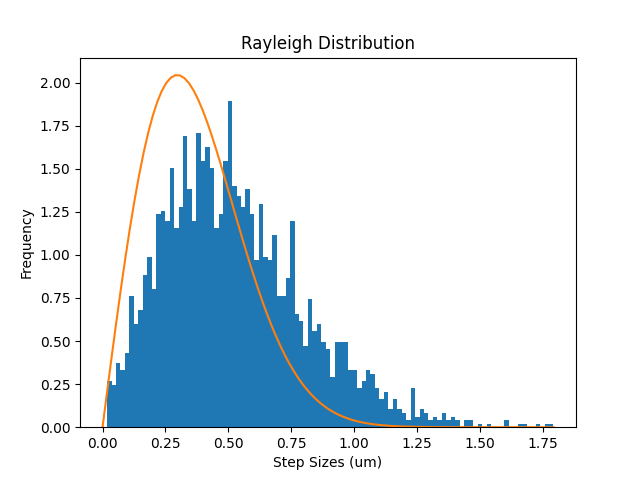
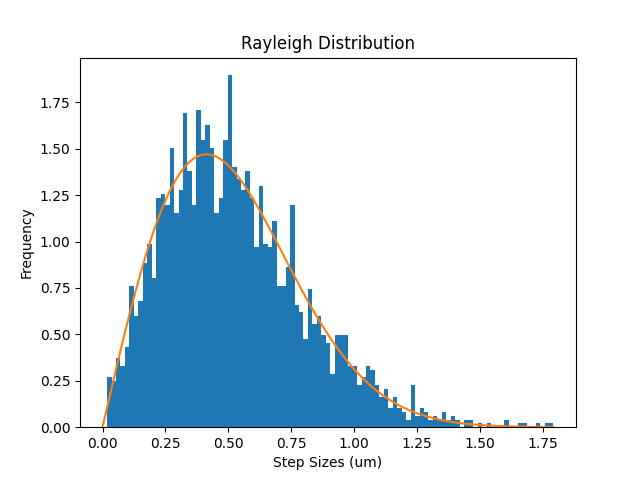
updated rayleigh distribution curve

diff --git a/Data Analysis/Results/rayleighdistributionfit.py b/Data Analysis/Results/rayleighdistributionfit.py
@@ -46,7 +46,7 @@ if __name__ == "__main__":
 
     n = 100
 
-    freq, bin_edges = np.histogram(step_sizes, bins=n)
+    freq, bin_edges = np.histogram(step_sizes, bins=n, density=True)
     bins = (bin_edges[:-1] + bin_edges[1:])/2
 
     dt = 0.5
@@ -56,6 +56,7 @@ if __name__ == "__main__":
     D_fit = y[0]
     r_fit = np.linspace(0, max(step_sizes), n)
     rayleigh_fit = rayleigh(r_fit, dt, D_fit)
+    print(D_fit)
 
     plt.hist(step_sizes, bins=n, density=True)
     plt.plot(r_fit, rayleigh_fit, label="Rayleigh Curve Fit")
